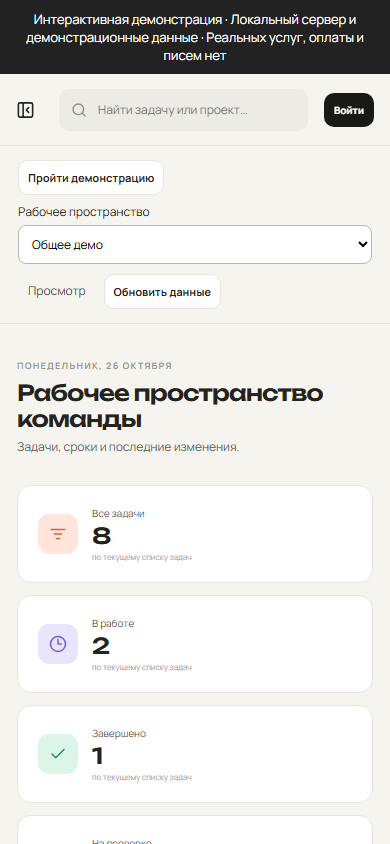
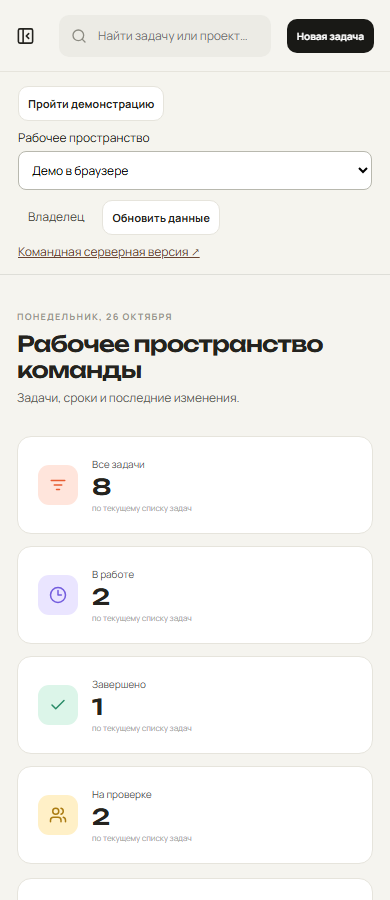
Polish project presentation, mobile layout and browser access

diff --git a/src/main.tsx b/src/main.tsx
@@ -5,24 +5,6 @@ import './styles.css';
 
 createRoot(document.getElementById('root')!).render(
   <StrictMode>
-    <>
-      {' '}
-      <div
-        style={{
-          padding: '10px 20px',
-          background: '#222',
-          color: '#fff',
-          fontSize: 13,
-          textAlign: 'center',
-        }}
-      >
-        Интерактивная демонстрация ·{' '}
-        {import.meta.env.VITE_DEMO_MODE === 'true'
-          ? 'Данные сохраняются только в этом браузере'
-          : 'Локальный сервер и демонстрационные данные'}{' '}
-        · Реальных услуг, оплаты и писем нет
-      </div>
-      <App />
-    </>
+    <App />
   </StrictMode>,
 );

diff --git a/README.md b/README.md
@@ -1,14 +1,13 @@
-# Flowboard — управление проектами и задачами
+# Flowboard - управление проектами и задачами
 
 Командная доска с рабочими пространствами, ролями и защитой от незаметной потери изменений при одновременном редактировании.
 
-[Демо в браузере](https://memorim.github.io/flowboard-project-manager/) · [Серверное демо](https://memorim-flowboard-live.amusedcorgi34.chatgpt.site)
+[Открыть проект](https://memorim.github.io/flowboard-project-manager/) · [Серверная версия](https://memorim-flowboard-live.amusedcorgi34.chatgpt.site/)
+
 
 ![Компьютерная версия](docs/desktop.png)
 
 <img src="docs/mobile.png" width="320" alt="Мобильная версия">
-
-[Короткая демонстрация](docs/demo.gif)
 
 ## Возможности
 
